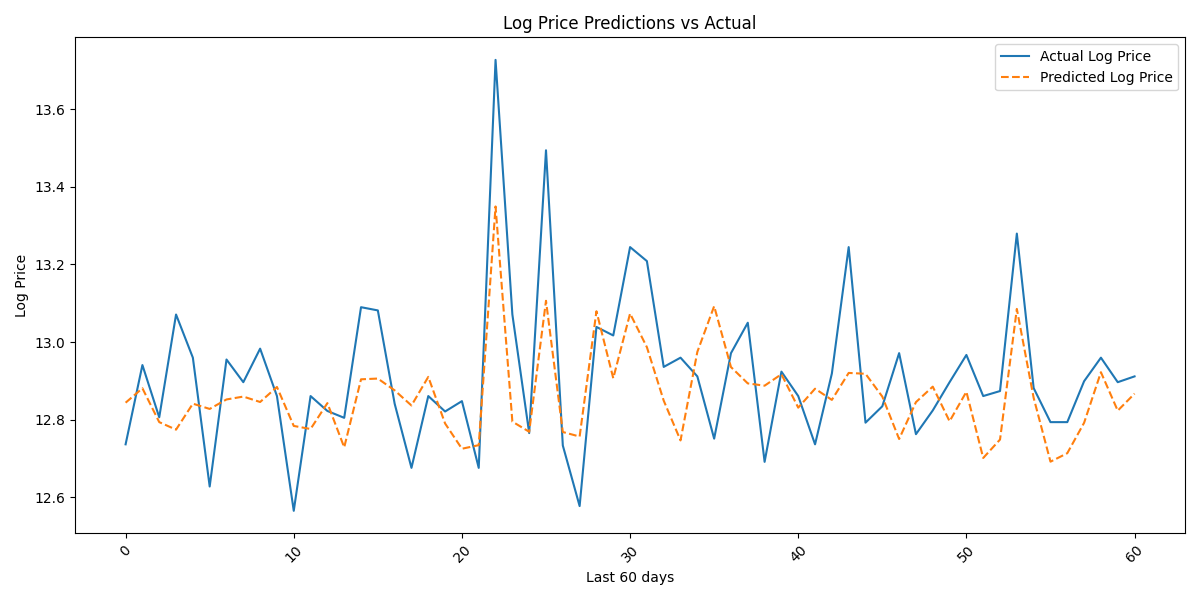
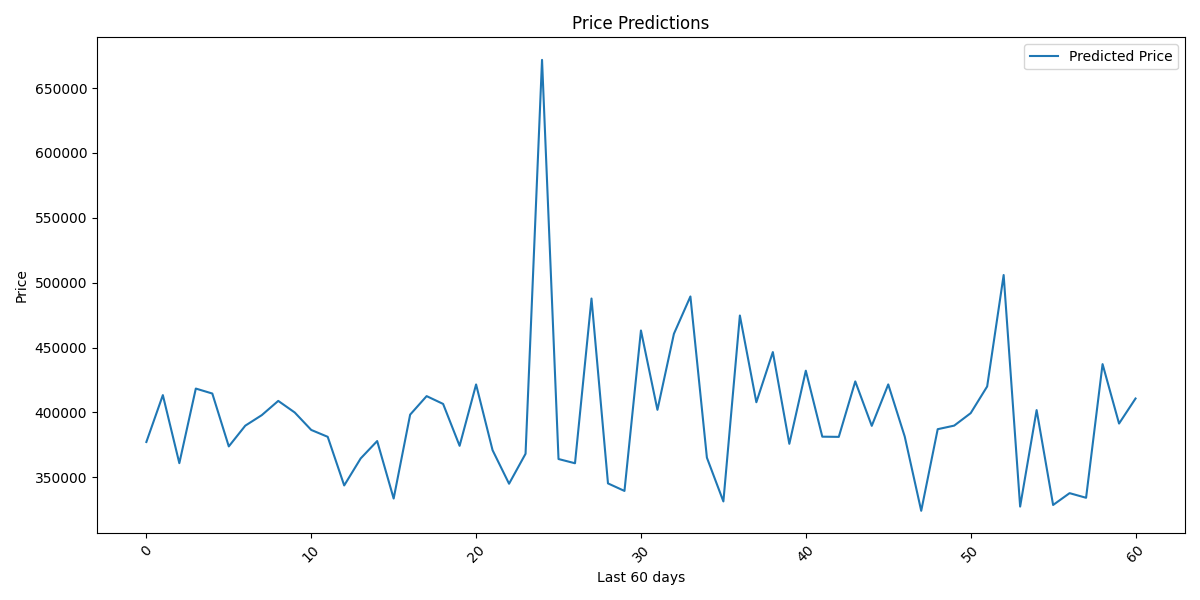
Update

diff --git a/code/machine_learning/random_forest_forecast.py b/code/machine_learning/random_forest_forecast.py
@@ -1,6 +1,8 @@
 import os
 import pandas as pd
 import matplotlib.pyplot as plt
+import numpy as np
+import datetime
 from sklearn.ensemble import RandomForestRegressor
 from sklearn.metrics import mean_squared_error
 from sklearn.model_selection import train_test_split
@@ -9,13 +11,12 @@ from flask import send_file
 
 app = Flask(__name__)
 
-def plot_predictions(results, n_forecast=60):
+def plot_predictions(results, n_forecast):
     plt.figure(figsize=(12, 6))
-    plt.plot(results.index, results['Actual'], label='Actual Log Price')
-    plt.plot(results.index, results['Predicted'], label='Predicted Log Price', linestyle='--')
-    plt.title('Log Price Predictions vs Actual')
+    plt.plot(results['Predicted'], label='Predicted Price')
+    plt.title('Price Predictions')
     plt.xlabel(f'Last {n_forecast} days')
-    plt.ylabel('Log Price')
+    plt.ylabel('Price')
     plt.legend()
     plt.xticks(rotation=45)
     plt.tight_layout()
@@ -32,8 +33,13 @@ def create_lagged_features(df, lags, target):
 def prediction(start_date, range_dates, bedrooms, bathrooms, property_type):
     # Create a sample time series data as a DataFrame
     data = pd.read_csv('data/cleaned_type_feature_engineer.csv', parse_dates=True)
-    data = data.sort_index()
-    data = data.loc[(data['Bds'] == bedrooms) & data['Bths'] == bathrooms] 
+    date = []
+    for i in range(len(data)):
+        x = datetime.datetime.strftime(datetime.datetime(data['Year'].loc[i], data['Month'].loc[i], data['Day'].loc[i]), "%Y-%m/%d")
+        date.append(x)
+    data["Date"] = date
+    data = data.sort_values(by=["Date"])
+    data = data.loc[(data['Bds'] == bedrooms) & (data['Bths'] == bathrooms) & (data['Date'] >= start_date)] 
     if property_type == "CONDO":
         data = data.loc[data['Type_COND'] == 1]
     elif property_type == "RENT":
@@ -53,6 +59,7 @@ def prediction(start_date, range_dates, bedrooms, bathrooms, property_type):
     features.remove('Agg_Median Percent of Last Original Price')
     features.remove('Price_Per_SF')
     features.remove('Price_per_Bedroom')
+    features.remove('Date')
     target = ['Log Price']
 
     
@@ -63,7 +70,7 @@ def prediction(start_date, range_dates, bedrooms, bathrooms, property_type):
     X = data[features].values
     y = data[target].values
 
-    n_forecast = 60
+    n_forecast = range_dates * 30
     train_size = -1 - n_forecast
     X_train, X_test = X[:train_size], X[train_size:]
     y_train, y_test = y[:train_size], y[train_size:]
@@ -80,19 +87,17 @@ def prediction(start_date, range_dates, bedrooms, bathrooms, property_type):
     mse = mean_squared_error(y_test, y_pred)
     print(f'Mean Squared Error: {mse}')
 
-    results = pd.DataFrame({'Actual': y_test.flatten(), 'Predicted': y_pred})
-    plot_predictions(results)
-
-
+    results = pd.DataFrame({'Predicted': np.exp(y_pred)})
+    plot_predictions(results, n_forecast)
 
 @app.get("/random-forest-forecast")
 def api():
-    start_date = '2024-08-01'
-    range_months = 24
+    start_date = '2001-01-01'
+    range_months = 2
     bedrooms = 1
     bathrooms = 1
     property_type = "CONDO"
-    prediction(0, 0, bedrooms, bathrooms, property_type)
+    prediction(start_date, range_months, bedrooms, bathrooms, property_type)
     return send_file("../../result/random_forest_forecast/acutals_vs_predictions.png")
 
 if __name__ == '__main__':
